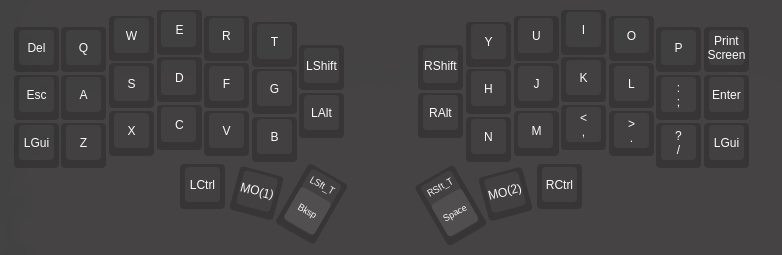
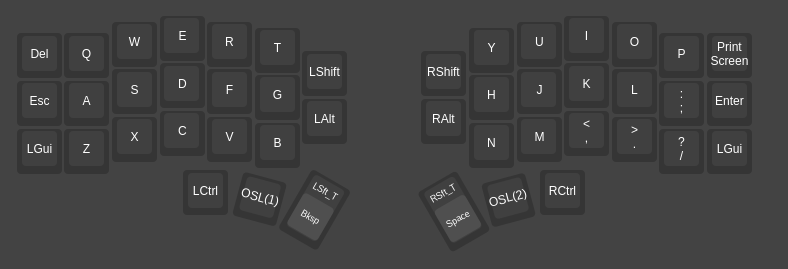
layer modifier keys now uses OSM to allow one key changes
useful for getting used to Esc and Enter in a world with less keys (one
day 36 keys will be enough)

diff --git a/README.md b/README.md
@@ -16,21 +16,14 @@ QWERTY
 
 ## Actions
 
-- **Space**: right thumb (tap)
-  - same key on **layer 1**, but can be hold
-
-- **Backspace**: left thumb (tap)
-  - same key on **layer 2**, but can be hold
-
-- **Enter**: right pinky, home row, last column
-
-- **Esc**: left pink, home row, first column
-
-- **Shift**: hold left thumb or hold right thumb (on **layer 0**)
-
-  - G key position or right-center-thumb on **layer 1**
-
-  - H key position or left-center-thumb on **layer 2**
+- **Space**: right thumb 1
+  - **Right Shift**: hold right thumb 1
+- **Backspace**: left thumb 1
+  - **Left Shift**: hold left thumb 1
+- **Enter**: left thumb 2 (switch to layer 1), followed by right thumb 1
+  - or right pinky, home row, last column (if 3x6 corne)
+- **Esc**: right thumb 2 (switch to layer 2), followed by left thumb 1
+  - or left pink, home row, first column (if 3x6 corne)
 
 - **Tab**: left pinky on **layer 2**
 
@@ -60,15 +53,15 @@ QWERTY
 
                     
 
-## Thumb Cluster center keys
+## Layer Switching
 
-Center thumb-cluster key on each side are layer modifier keys, left side changes to layer 1 while holding, right side changes to layer 2 while holding.
+Center key on the thumb-clusters, also referred here as thumb-key-2 on each side are layer modifier keys, left side changes to layer 1 for the next key (OSL) or while holding, right side changes to layer 2.
 
 
 
 ## Arrow keys
 
-Arrow keys are same as Vim, HJKL, but with **layer 1** turned on.
+Arrow keys are same as Vim navigatio; `H J K L`, but with **layer 1** turned on.
 
 
 
@@ -80,7 +73,7 @@ Layer 2 has numbers on the right hand distributed as a numpad, but with 0 right 
 
 ## Symbols
 
-**Layer 2** has the symbols: `!@#$%` on top row of left side, and **Layer 1** has the symbols `^&*()` on top row of the right side. Mimicing the positions in a laptop keyboard with a number row.
+**Layer 2** has the symbols: `! @ # $ %` on top row of left side, and **Layer 1** has the symbols `^ & * ( )` on top row of the right side. Similar to the positions in a laptop keyboard with a number row.
 
 The remaining symbols are as follows:
 
@@ -90,7 +83,7 @@ The remaining symbols are as follows:
 
 ```
 - and \ as bottom row positions 2 and 5 of the right side.
-_ and | can be typed using a special shift key of layer 1 (position of the g key on layer 0)
+_ and | can be typed using a special shift key of layer 1 (position of the G key on layer 0)
 ```
 
 
@@ -98,13 +91,13 @@ _ and | can be typed using a special shift key of layer 1 (position of the g key
 ### layer 2
 
 ```
-` [ ] and = as bottom row positions 1 2 3 4 of the left side.
-~ { } and + can be typed using a special shift key of layer 2 (position of the h key on layer 0)
+` [ ] and = as bottom row positions 5 4 3 2 of the left side.
+~ { } and + can be typed using a special shift key of layer 2 (position of the H key on layer 0)
 ```
 
 
 
-## Center-middle Cluster (corne v4)
+## Center Cluster (corne v4)
 
 Bottom row are Left Alt and Right Alt (compose key). Top row are Left Shift and Right Shift.
 
@@ -112,7 +105,19 @@ Bottom row are Left Alt and Right Alt (compose key). Top row are Left Shift and 
 
 ## External Columns
 
-As already mentioned, Esc and Enter are on middle row, with Left Super on both sides in the bottom row and with Del and Printscr on the top row.
+As already mentioned, If your corne is 3x6, Esc and Enter are on middle row, with Left Super on both sides in the bottom row and with Del and Printscr on the top row.
+
+
+
+-----
+
+
+
+## Usage-based feedback
+
+- Super key position is not the most comfortable… maybe rethink it considering that hyprland default keybinds for Omarchy uses Super a lot. 
+
+
 
 ## To-do
 
